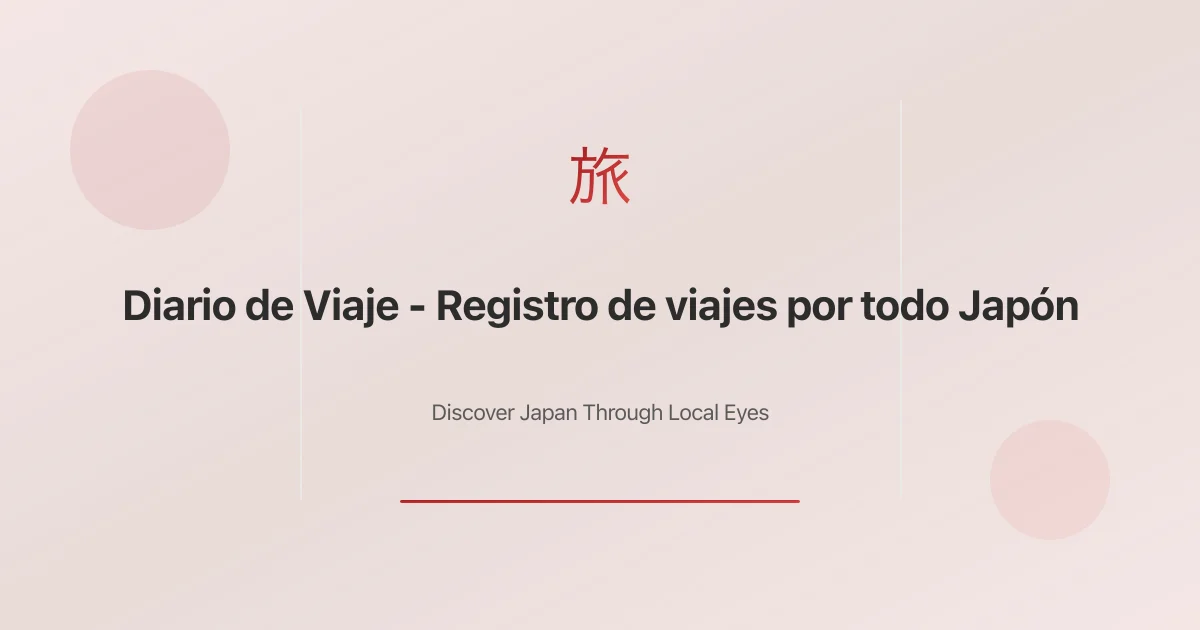
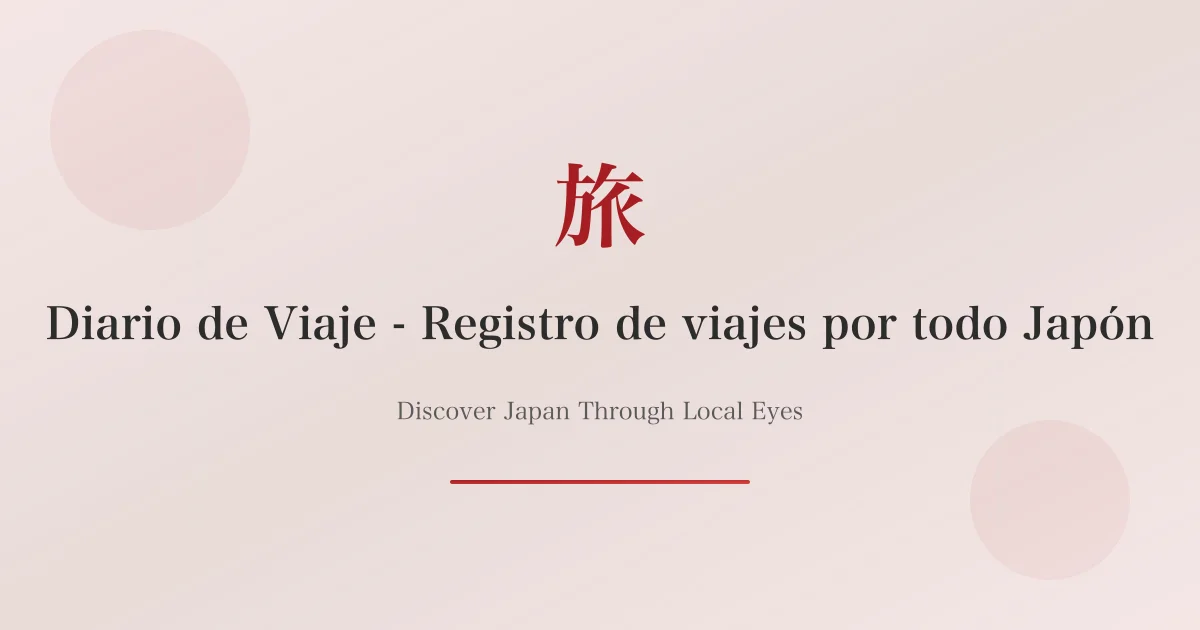
chore: add git pull and stash commands to allowed bash operations

diff --git a/site/scripts/generate-og.js b/site/scripts/generate-og.js
@@ -99,22 +99,24 @@ async function generateOgImages() {
           <rect width="100%" height="100%" fill="url(#accent)"/>
           
           <!-- Decorative elements -->
-          <circle cx="150" cy="150" r="80" fill="#A61E22" opacity="0.08"/>
-          <circle cx="1050" cy="480" r="60" fill="#D94741" opacity="0.08"/>
-          <rect x="900" y="100" width="2" height="400" fill="#EAE8E5"/>
-          <rect x="300" y="100" width="2" height="400" fill="#EAE8E5"/>
-          
-          <!-- Logo -->
-          <text x="600" y="200" text-anchor="middle" fill="url(#logo-gradient)" font-size="64" font-weight="bold" font-family="Noto Sans JP, system-ui">旅</text>
-          
+          <g opacity="0.06">
+            <circle cx="150" cy="130" r="100" fill="#A61E22"/>
+            <circle cx="1050" cy="500" r="80" fill="#A61E22"/>
+          </g>
+
+          <g>
+            <line x1="200" y1="100" x2="200" y2="530" stroke="#e0e0e0" stroke-width="1"/>
+            <line x1="1000" y1="100" x2="1000" y2="530" stroke="#e0e0e0" stroke-width="1"/>
+          </g>
+
+          <!-- Main Kanji -->
+          <text x="600" y="240" text-anchor="middle" fill="#A61E22" font-size="92" font-weight="700" font-family="Hiragino Mincho ProN, YuMincho, Noto Serif JP, serif">旅</text>
           <!-- Title -->
-          <text x="600" y="320" text-anchor="middle" fill="#2C2C2C" font-size="42" font-weight="bold" font-family="Noto Sans JP, system-ui">${title}</text>
-          
+          <text x="600" y="340" text-anchor="middle" fill="#2C2C2C" font-size="44" font-weight="700" font-family="Hiragino Mincho ProN, YuMincho, Noto Serif JP, serif">${title}</text>
           <!-- Subtitle -->
-          <text x="600" y="420" text-anchor="middle" fill="#5A5A5A" font-size="22" font-family="system-ui">Discover Japan Through Local Eyes</text>
-          
+          <text x="600" y="420" text-anchor="middle" fill="#5A5A5A" font-size="24" font-family="Hiragino Mincho ProN, YuMincho, Noto Serif JP, serif">Discover Japan Through Local Eyes</text>
           <!-- Bottom accent line -->
-          <rect x="400" y="500" width="400" height="3" fill="url(#logo-gradient)" rx="2"/>
+          <rect x="450" y="480" width="300" height="4" fill="url(#logo-gradient)" rx="2"/>
         </svg>
       `;
 
